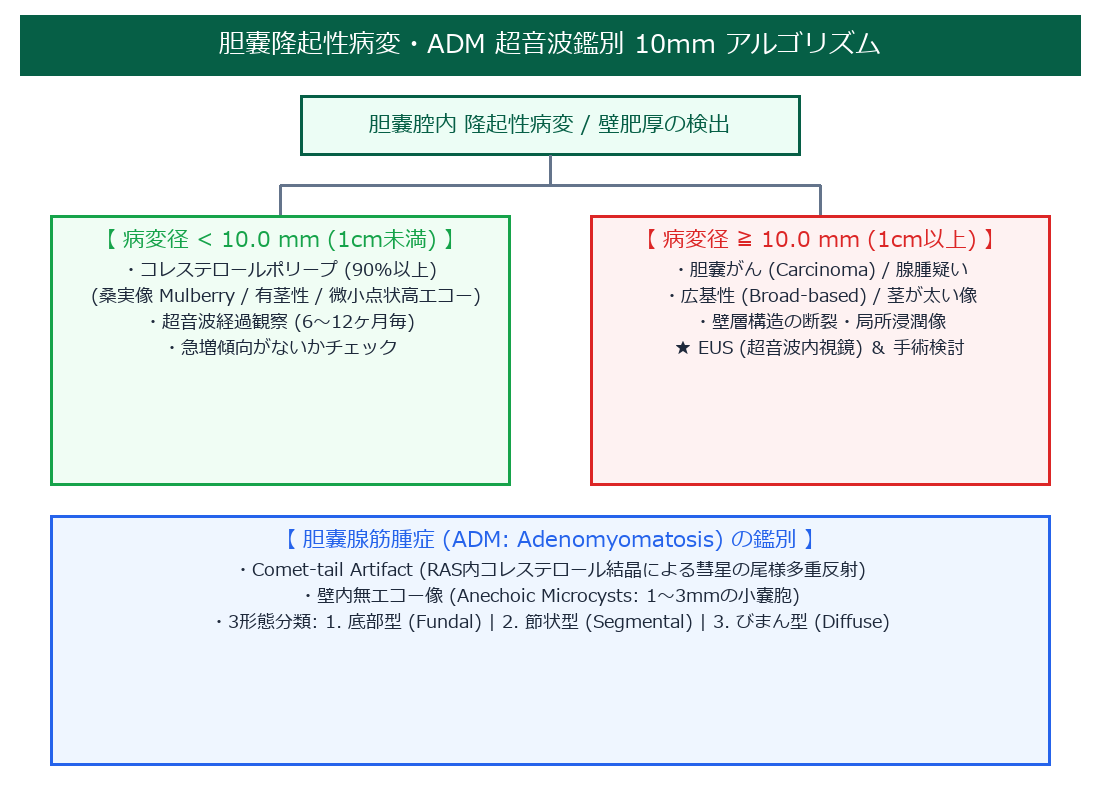
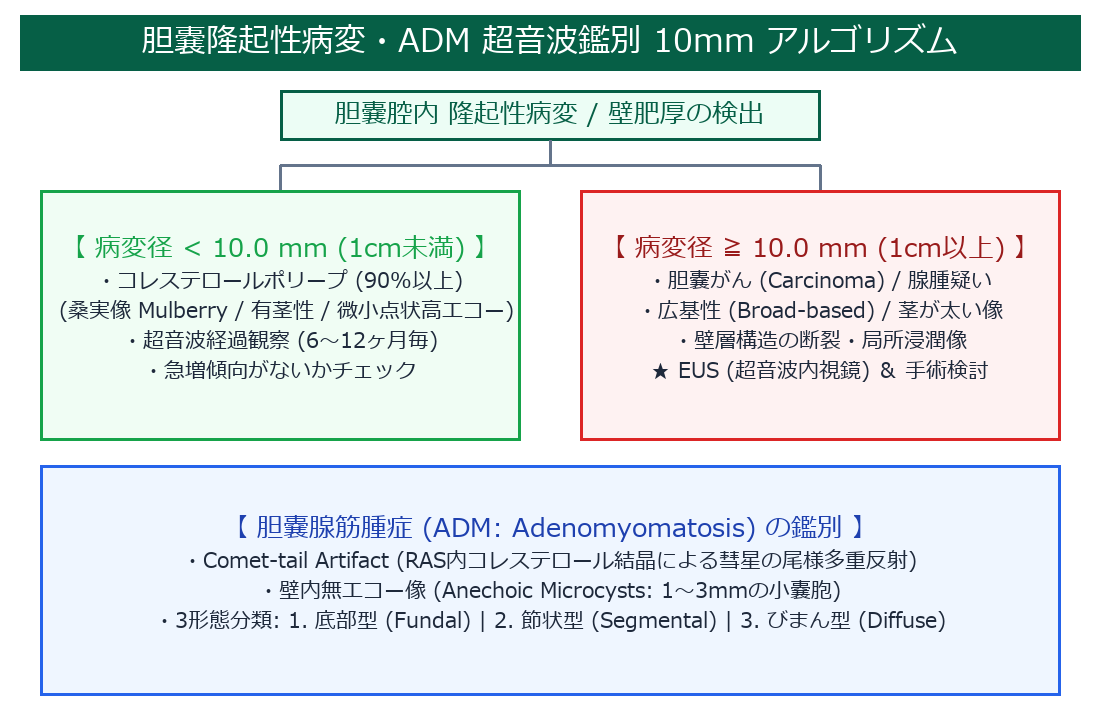
Redesign all flowchart PNGs with large bold fonts, perfectly tight-fitting boxes, and balanced vertical alignment

Changed region(s): [[0.0309, 0.0306, 0.9891, 0.6111], [0.0309, 0.6417, 0.9582, 0.9778], [0.1545, 0.825, 0.2473, 0.8861]]

diff --git a/generate_golden_ratio_flowcharts.py b/generate_golden_ratio_flowcharts.py
@@ -1,0 +1,303 @@
+import os
+from PIL import Image, ImageDraw, ImageFont
+
+font_title = font_large = font_mid = font_small = None
+font_paths = ["C:/Windows/Fonts/meiryo.ttc", "C:/Windows/Fonts/msgothic.ttc", "C:/Windows/Fonts/arial.ttf"]
+
+for fp in font_paths:
+    if os.path.exists(fp):
+        try:
+            font_title = ImageFont.truetype(fp, 32)
+            font_large = ImageFont.truetype(fp, 26)
+            font_mid = ImageFont.truetype(fp, 21)
+            font_small = ImageFont.truetype(fp, 18)
+            break
+        except Exception:
+            continue
+
+if font_title is None:
+    font_title = font_large = font_mid = font_small = ImageFont.load_default()
+
+img_dir = r"C:\Antigravity\超音波検査\腹部超音波検査_教科書\03_疾患別超音波所見\images"
+os.makedirs(img_dir, exist_ok=True)
+
+# Helper function for perfectly centered vertical & horizontal text in tight fitting boxes
+def draw_tight_box(draw, box, fill_bg, outline_c, title, lines, title_color=None):
+    x1, y1, x2, y2 = box
+    draw.rectangle(box, fill=fill_bg, outline=outline_c, width=3)
+    
+    t_color = title_color if title_color else outline_c
+    
+    if not lines:
+        # Single title box
+        draw.text(((x1 + x2) // 2, (y1 + y2) // 2), title, fill=t_color, font=font_large, anchor="mm")
+    else:
+        # Calculate total height of text block to perfectly center vertically inside the box
+        title_h = 32
+        lines_h = len(lines) * 30
+        total_h = title_h + 12 + lines_h
+        
+        start_y = y1 + ((y2 - y1) - total_h) // 2 + 16
+        
+        # Title
+        draw.text(((x1 + x2) // 2, start_y), title, fill=t_color, font=font_large, anchor="mm")
+        
+        # Lines
+        cur_y = start_y + 32
+        for line in lines:
+            draw.text(((x1 + x2) // 2, cur_y), line, fill="#1e293b", font=font_mid, anchor="mm")
+            cur_y += 30
+
+# 1. GB Polyps & ADM (Golden Ratio Fit)
+def make_gb_polyps_golden():
+    w, h = 1100, 720
+    img = Image.new("RGB", (w, h), (255, 255, 255))
+    draw = ImageDraw.Draw(img)
+    
+    # Top Header
+    draw.rectangle([(20, 15), (1080, 70)], fill="#065f46")
+    draw.text((550, 42), "胆嚢隆起性病変・ADM 超音波鑑別 10mm アルゴリズム", fill="#ffffff", font=font_title, anchor="mm")
+    
+    # Level 1 Root
+    draw_tight_box(draw, (280, 90, 820, 140), "#ecfdf5", "#065f46", "胆嚢腔内 隆起性病変 / 壁肥厚の検出", [])
+    
+    # Lines
+    draw.line([(550, 140), (550, 165)], fill="#64748b", width=3)
+    draw.line([(280, 165), (820, 165)], fill="#64748b", width=3)
+    draw.line([(280, 165), (280, 190)], fill="#64748b", width=3)
+    draw.line([(820, 165), (820, 190)], fill="#64748b", width=3)
+    
+    # Left & Right Boxes (Height: 250px)
+    draw_tight_box(draw, (40, 190, 520, 440), "#f0fdf4", "#16a34a", "【 病変径 < 10.0 mm (1cm未満) 】", [
+        "・コレステロールポリープ (90%以上)",
+        "  (桑実像 Mulberry / 有茎性 / 微小点状高エコー)",
+        "・超音波経過観察 (6〜12ヶ月毎)",
+        "・急増傾向がないかチェック"
+    ])
+    
+    draw_tight_box(draw, (580, 190, 1060, 440), "#fef2f2", "#dc2626", "【 病変径 ≧ 10.0 mm (1cm以上) 】", [
+        "・胆嚢がん (Carcinoma) / 腺腫疑い",
+        "・広基性 (Broad-based) / 茎が太い像",
+        "・壁層構造の断裂・局所浸潤像",
+        "★ EUS (超音波内視鏡) ＆ 手術検討"
+    ], title_color="#991b1b")
+    
+    # Bottom Box (Height: 220px)
+    draw_tight_box(draw, (40, 465, 1060, 695), "#eff6ff", "#2563eb", "【 胆嚢腺筋腫症 (ADM: Adenomyomatosis) の鑑別 】", [
+        "・Comet-tail Artifact (RAS内コレステロール結晶による彗星の尾様多重反射)",
+        "・壁内無エコー像 (Anechoic Microcysts: 1〜3mmの小嚢胞)",
+        "・3形態分類: 1. 底部型 (Fundal) | 2. 節状型 (Segmental) | 3. びまん型 (Diffuse)"
+    ], title_color="#1e40af")
+    
+    path = os.path.join(img_dir, "gb_polyps_adm_flowchart.png")
+    img.save(path, quality=95)
+    print("Golden ratio fit: gb_polyps_adm_flowchart.png")
+
+# 2. Pancreatic Mass (Golden Ratio Fit)
+def make_panc_mass_golden():
+    w, h = 1100, 920
+    img = Image.new("RGB", (w, h), (255, 255, 255))
+    draw = ImageDraw.Draw(img)
+    
+    draw.rectangle([(20, 15), (1080, 70)], fill="#1e3a8a")
+    draw.text((550, 42), "膵腫瘤性病変 (Pancreatic Mass) 完全分類フロー", fill="#ffffff", font=font_title, anchor="mm")
+    
+    draw_tight_box(draw, (320, 90, 780, 140), "#f1f5f9", "#1e3a8a", "膵腫瘤性病変 (Pancreatic Mass)", [])
+    
+    draw.line([(550, 140), (550, 165)], fill="#64748b", width=3)
+    draw.line([(280, 165), (820, 165)], fill="#64748b", width=3)
+    draw.line([(280, 165), (280, 190)], fill="#64748b", width=3)
+    draw.line([(820, 165), (820, 190)], fill="#64748b", width=3)
+    
+    draw_tight_box(draw, (40, 190, 520, 245), "#dbeafe", "#2563eb", "1. 固形腫瘤性病変 (Solid)", [], title_color="#1e40af")
+    draw_tight_box(draw, (580, 190, 1060, 245), "#fce7f3", "#db2777", "2. 嚢胞性腫瘤性病変 (Cystic)", [], title_color="#9d174d")
+    
+    # Left Section
+    draw.rectangle([(30, 260), (530, 895)], fill="#f8fafc", outline="#94a3b8", width=2)
+    draw.text((280, 285), "【 固形腫瘤 (Solid Lesions) 】", fill="#1e3a8a", font=font_large, anchor="mm")
+
+    solid_items = [
+        ("通常型膵がん (PDAC)", ["浸潤性管がん (全体の約90%)", "低血流 / 主膵管高度拡張 (>3mm)"]),
+        ("膵神経内分泌腫瘍 (PanNET)", ["境界ナイフ様鮮明 / 多血性(Hyper)", "血流極めて豊富 / 主膵管拡張なし"]),
+        ("Solid Pseudopapillary (SPN)", ["10〜30代若い女性に好発", "固形 ＋ 出血壊死性嚢胞の混在"]),
+        ("自己免疫性膵炎 (AIP)", ["腫瘤形成性膵炎 (膵がん酷似)", "Capsule-like Rim / 主膵管狭小化"])
+    ]
+
+    y_start = 315
+    for title, lines in solid_items:
+        draw_tight_box(draw, (50, y_start, 510, y_start + 130), "#ffffff", "#3b82f6", title, lines)
+        y_start += 142
+
+    # Right Section
+    draw.rectangle([(570, 260), (1070, 895)], fill="#f8fafc", outline="#94a3b8", width=2)
+    draw.text((820, 285), "【 嚢胞性腫瘤 (Cystic Lesions) 】", fill="#831843", font=font_large, anchor="mm")
+
+    cystic_items = [
+        ("IPMN (膵管内乳頭粘液性)", ["主膵管連通あり / 葡萄の房状", "壁結節 ≧ 5mm で即手術検討"]),
+        ("MCN (粘液性嚢胞腫瘍)", ["中年女性・膵尾部 / 厚い被膜", "潜在的悪性 (原則全例手術)"]),
+        ("SCN (漿液性嚢胞腫瘍)", ["ハニカム像 / 中央星状石灰化", "ほぼ100%良性 (経過観察)"]),
+        ("仮性嚢胞 (Pseudocyst)", ["膵炎既往 / 単房性無エコー", "非腫瘍性嚢胞"])
+    ]
+
+    y_start = 315
+    for title, lines in cystic_items:
+        border_c = "#ec4899" if "IPMN" in title or "MCN" in title or "SCN" in title else "#6b7280"
+        draw_tight_box(draw, (590, y_start, 1050, y_start + 130), "#ffffff", border_c, title, lines)
+        y_start += 142
+
+    path = os.path.join(img_dir, "pancreatic_mass_classification.png")
+    img.save(path, quality=95)
+    print("Golden ratio fit: pancreatic_mass_classification.png")
+
+# 3. Cholecystitis (Golden Ratio Fit)
+def make_chole_golden():
+    w, h = 1100, 720
+    img = Image.new("RGB", (w, h), (255, 255, 255))
+    draw = ImageDraw.Draw(img)
+    
+    draw.rectangle([(20, 15), (1080, 70)], fill="#991b1b")
+    draw.text((550, 42), "TG18/13 急性胆嚢炎 (Cholecystitis) 診断フロー", fill="#ffffff", font=font_title, anchor="mm")
+    
+    draw_tight_box(draw, (280, 88, 820, 138), "#fee2e2", "#991b1b", "右上腹部痛 ＋ 発熱 ＋ 炎症反応陽性", [], title_color="#7f1d1d")
+    
+    draw.line([(550, 138), (550, 160)], fill="#64748b", width=3)
+    
+    draw_tight_box(draw, (80, 160, 1020, 260), "#f8fafc", "#dc2626", "【 Bモード4大サインの評価 】", [
+        "1. 壁肥厚 >3mm | 2. 二重壁像 (浮腫状層) | 3. 胆嚢腫大 (短径≧4cm) | 4. 嵌頓結石"
+    ])
+    
+    draw.line([(550, 260), (550, 285)], fill="#64748b", width=3)
+    
+    draw_tight_box(draw, (150, 285, 950, 385), "#fef2f2", "#b91c1c", "直視下 探触子圧迫試行", [
+        "超音波 Murphy 徴候 陽性 (胆嚢直上で痛覚最高潮 ＋ 吸気中断)"
+    ])
+    
+    draw.line([(550, 385), (550, 410)], fill="#64748b", width=3)
+    draw.line([(300, 410), (800, 410)], fill="#64748b", width=3)
+    draw.line([(300, 410), (300, 435)], fill="#64748b", width=3)
+    draw.line([(800, 410), (800, 435)], fill="#64748b", width=3)
+    
+    draw_tight_box(draw, (40, 435, 520, 695), "#ffffff", "#dc2626", "★ 急性胆嚢炎 確診 (確定)", [
+        "・早期腹腔鏡下胆嚢摘出術 (Lap-C) 検討",
+        "・壊疽性サイン (壁連続性断裂/脱落膜)",
+        "・気腫性サイン (Dirty shadow/Ring-down)"
+    ])
+    
+    draw_tight_box(draw, (580, 435, 1060, 695), "#ffffff", "#64748b", "慢性胆嚢炎 / 他疾患の考慮", [
+        "・胆嚢壁全周性高度線維化肥厚",
+        "・Porcelain GB (陶器様胆嚢石灰化)",
+        "・肝炎 / 右心不全による二次性壁浮腫鑑別"
+    ], title_color="#334155")
+    
+    path = os.path.join(img_dir, "cholecystitis_flowchart.png")
+    img.save(path, quality=95)
+    print("Golden ratio fit: cholecystitis_flowchart.png")
+
+# 4. Hydronephrosis (Golden Ratio Fit)
+def make_hydro_golden():
+    w, h = 1100, 720
+    img = Image.new("RGB", (w, h), (255, 255, 255))
+    draw = ImageDraw.Draw(img)
+    
+    draw.rectangle([(20, 15), (1080, 70)], fill="#4c1d95")
+    draw.text((550, 42), "水腎症 (Hydronephrosis) SFU Grade 1～4 判定フロー", fill="#ffffff", font=font_title, anchor="mm")
+    
+    y = 90
+    grades = [
+        ("Grade 1 (軽度)", ["腎盂のみの分離・軽度拡張 (Pelvis Expansion Only)", "腎杯拡張なし / 腎実質厚正常"], "#f3e8ff", "#6b21a8"),
+        ("Grade 2 (中等度)", ["腎盂拡張 ＋ 主要腎杯 (Major Calyces) の軽度拡張", "腎実質厚正常"], "#e9d5ff", "#6b21a8"),
+        ("Grade 3 (高度)", ["腎盂 ＋ 全腎杯 (Minor Calyces) 水疱状・クラゲ様拡張", "腎実質厚は保たれる"], "#d8b4fe", "#581c87"),
+        ("Grade 4 (重症)", ["全腎杯極度拡張 ＋ ★ 腎実質の菲薄化 (実質厚 < 10mm)", "腎機能不可逆的障害の危険信号"], "#fee2e2", "#991b1b")
+    ]
+    
+    for title, lines, bg_c, text_c in grades:
+        draw_tight_box(draw, (40, y, 1060, y + 135), bg_c, text_c, title, lines)
+        y += 150
+        
+    path = os.path.join(img_dir, "hydronephrosis_sfu_flowchart.png")
+    img.save(path, quality=95)
+    print("Golden ratio fit: hydronephrosis_sfu_flowchart.png")
+
+# 5. Fatty Liver (Golden Ratio Fit)
+def make_fatty_golden():
+    w, h = 1100, 720
+    img = Image.new("RGB", (w, h), (255, 255, 255))
+    draw = ImageDraw.Draw(img)
+    
+    draw.rectangle([(20, 15), (1080, 70)], fill="#15803d")
+    draw.text((550, 42), "脂肪肝 (Fatty Liver / MASLD) 重症度・局所性変化 判定フロー", fill="#ffffff", font=font_title, anchor="mm")
+    
+    draw_tight_box(draw, (280, 88, 820, 138), "#f0fdf4", "#15803d", "上腹部走査: 肝腎長軸像 ＆ 右肋骨下斜断像", [], title_color="#14532d")
+    
+    draw.line([(550, 138), (550, 160)], fill="#64748b", width=3)
+    
+    draw_tight_box(draw, (80, 160, 1020, 260), "#f8fafc", "#16a34a", "【 4大サイン ＆ 減衰係数 ATI / UAP の評価 】", [
+        "1. 肝腎コントラスト | 2. 深部減衰 | 3. 門脈壁消退 | 4. ATI > 0.63 dB/cm/MHz"
+    ], title_color="#15803d")
+    
+    draw.line([(550, 260), (550, 285)], fill="#64748b", width=3)
+    draw.line([(300, 285), (800, 285)], fill="#64748b", width=3)
+    draw.line([(300, 285), (300, 410)], fill="#64748b", width=3)
+    draw.line([(800, 285), (800, 410)], fill="#64748b", width=3)
+    
+    draw_tight_box(draw, (40, 410, 520, 695), "#ffffff", "#16a34a", "【 全般性脂肪肝 Grade 分類 】", [
+        "・Grade 1 (軽度): 肝腎コントラスト軽度陽性",
+        "・Grade 2 (中等度): 深部減衰・門脈壁不鮮明",
+        "・Grade 3 (高度): 肝深部・横隔膜描出不能",
+        "★ SWE線維化評価: F4(肝硬変) > 11 kPa"
+    ], title_color="#15803d")
+    
+    draw_tight_box(draw, (580, 410, 1060, 695), "#ffffff", "#eab308", "【 局所性脂肪回避 (Focal Sparing) 】", [
+        "・好発部位: 胆嚢床(S5) / 門脈臍部(S4)",
+        "・非門脈系第三の血流流入による",
+        "★ 腫瘍(Mass)との鑑別:",
+        "   血管が病変内を直進貫通 (Mass effect無)"
+    ], title_color="#a16207")
+    
+    path = os.path.join(img_dir, "liver_fatty_flowchart.png")
+    img.save(path, quality=95)
+    print("Golden ratio fit: liver_fatty_flowchart.png")
+
+# 6. Appendicitis (Golden Ratio Fit)
+def make_app_golden():
+    w, h = 1100, 720
+    img = Image.new("RGB", (w, h), (255, 255, 255))
+    draw = ImageDraw.Draw(img)
+    
+    draw.rectangle([(20, 15), (1080, 70)], fill="#c2410c")
+    draw.text((550, 42), "急性虫垂炎 (Acute Appendicitis) 超音波診断・期別フロー", fill="#ffffff", font=font_title, anchor="mm")
+    
+    draw_tight_box(draw, (280, 88, 820, 138), "#fff7ed", "#c2410c", "右下腹部 段階的圧迫走査 (Graded Compression)", [], title_color="#9a3412")
+    
+    draw.line([(550, 138), (550, 160)], fill="#64748b", width=3)
+    
+    draw_tight_box(draw, (80, 160, 1020, 260), "#f8fafc", "#ea580c", "【 虫垂の描出 ＆ 圧迫消退性の確認 】", [
+        "1. 虫垂外径 > 6.0 mm | 2. 圧迫非消退 (丸い断面のまま) | 3. Sonographic McBurney 陽性"
+    ], title_color="#c2410c")
+    
+    draw.line([(550, 260), (550, 285)], fill="#64748b", width=3)
+    
+    draw.rectangle([(30, 285), (1070, 695)], fill="#ffffff", outline="#c2410c", width=3)
+    draw.text((550, 312), "【 病理病態期別の観察基準 】", fill="#9a3412", font=font_large, anchor="mm")
+    
+    stages = [
+        ("カタル性 (Catarrhal)", ["外径 6-8mm / 5層構造完全保持 / 軽度血流増加"], "#ffedd5", "#9a3412"),
+        ("蜂窩織炎性 (Phlegmonous)", ["外径 8-12mm / 粘膜下層肥厚 / ★ 著明な壁内血流増加 (Hyperemia)"], "#fed7aa", "#9a3412"),
+        ("壊疽性 (Gangrenous)", ["外径 > 10mm / 壁層構造断裂 / ★ 壁内血流の完全消失 (無血流/壊死)"], "#fee2e2", "#991b1b")
+    ]
+    
+    y = 345
+    for title, lines, bg_c, text_c in stages:
+        draw_tight_box(draw, (50, y, 1050, y + 100), bg_c, text_c, title, lines)
+        y += 112
+        
+    path = os.path.join(img_dir, "appendicitis_flowchart.png")
+    img.save(path, quality=95)
+    print("Golden ratio fit: appendicitis_flowchart.png")
+
+make_gb_polyps_golden()
+make_panc_mass_golden()
+make_chole_golden()
+make_hydro_golden()
+make_fatty_golden()
+make_app_golden()
